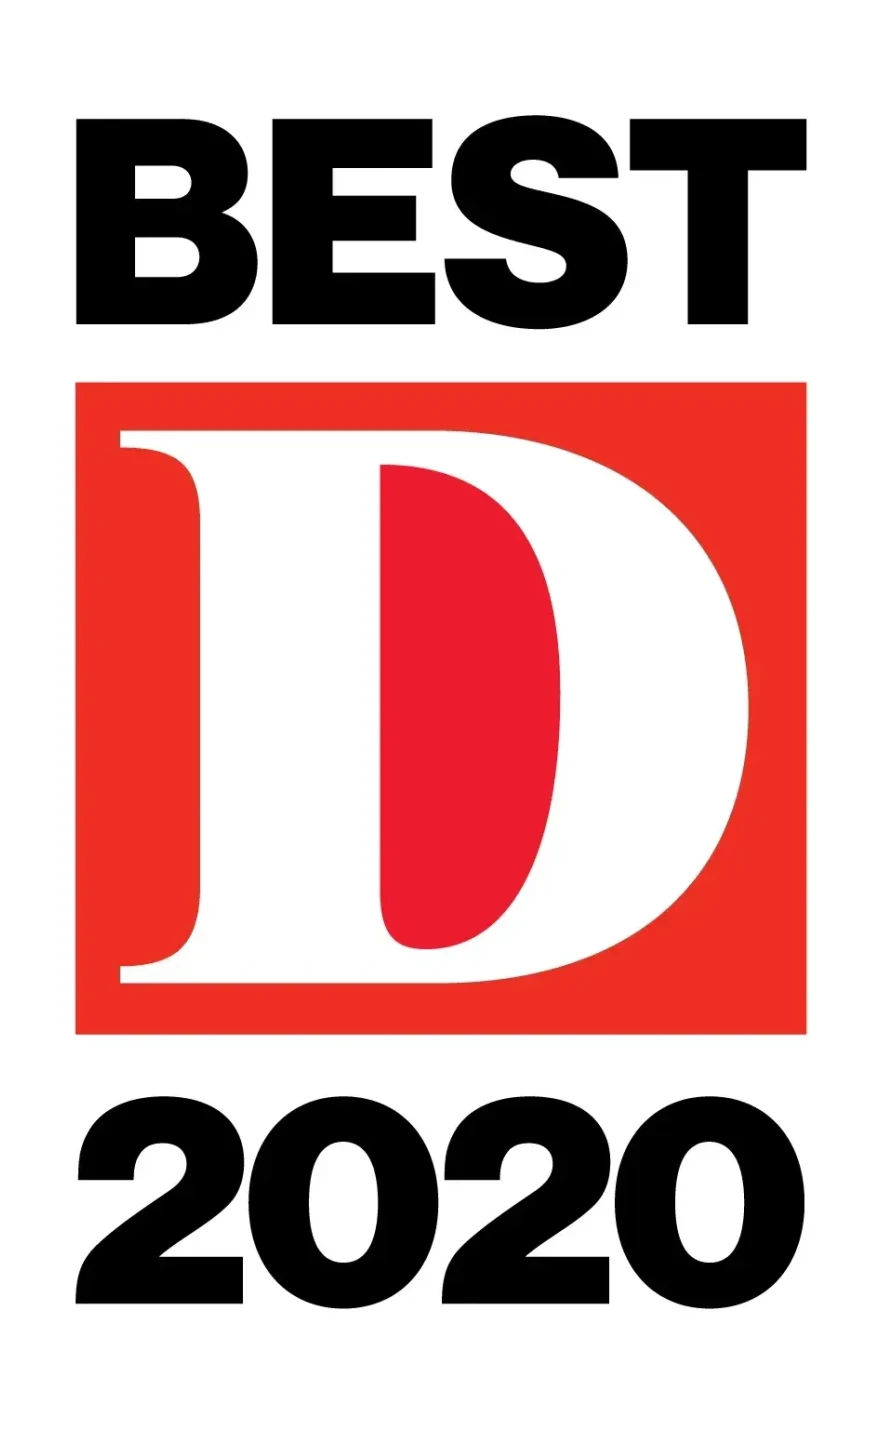
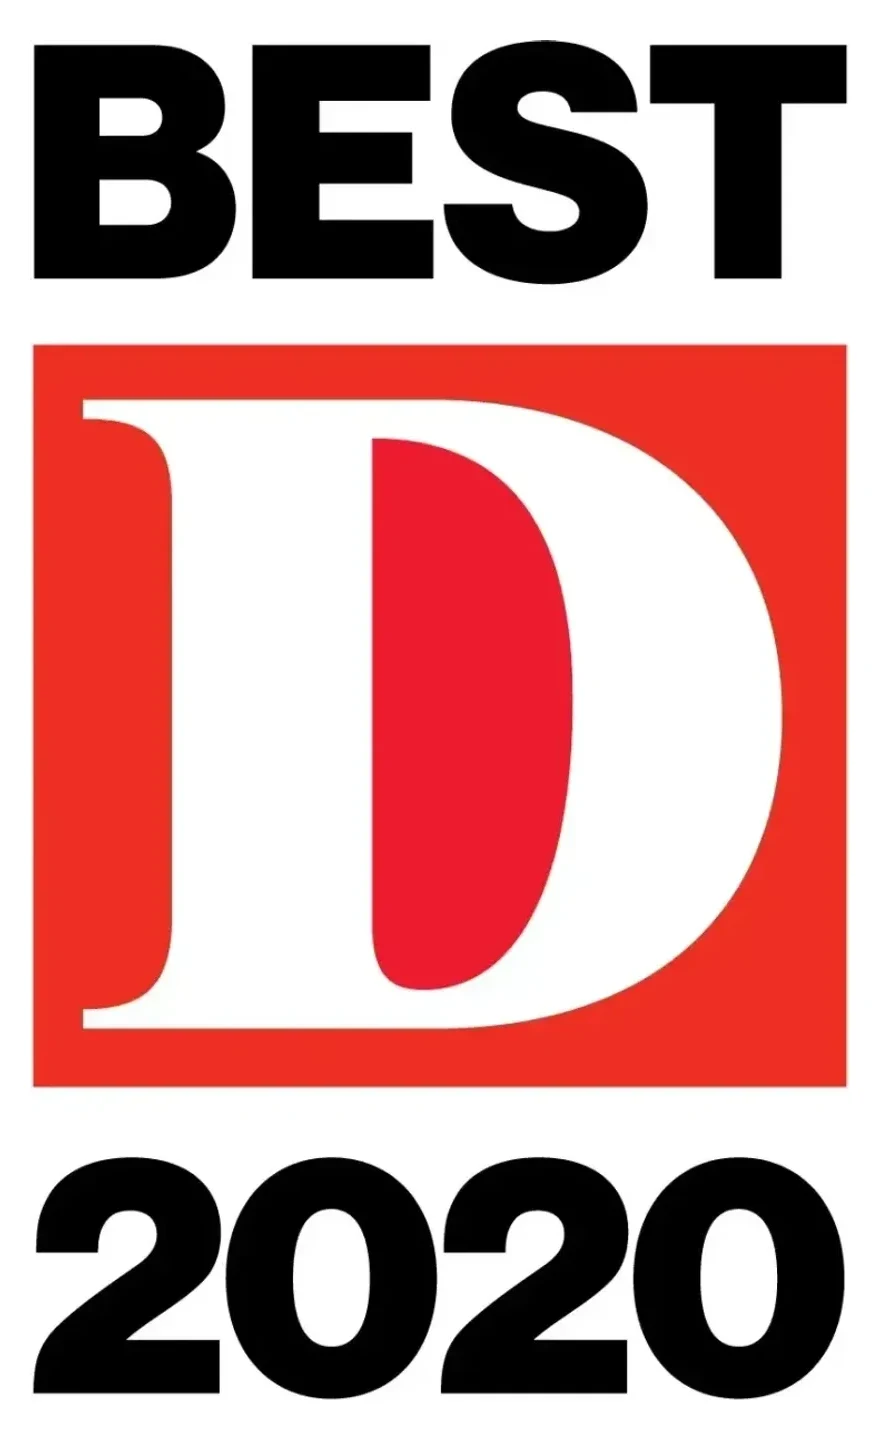
Batch: Parry bio, FACMS/double-board, bolded fellowship-trained + education blurb, Mayo-style pilonidal illustration, identical badge tiles, PRP before/after gallery, drop stale surgery-day block

diff --git a/src/lib/data/siteData.ts b/src/lib/data/siteData.ts
@@ -75,17 +75,17 @@ export const navigation = {
 export const doctors = [
   {
     id: "dr-modi",
-    name: "Gunjan Modi, MD, FAAD",
-    credentials: "MD, FAAD",
-    title: "Board Certified Dermatologist & Mohs Surgeon",
+    name: "Gunjan Modi, MD, FAAD, FACMS",
+    credentials: "MD, FAAD, FACMS",
+    title: "Double Board-Certified Dermatologist & Mohs Surgeon",
     specialty: "Mohs Surgery & Cutaneous Oncology",
     slug: "dr-gunjan-modi",
     // Real photograph from the practice's own site, colour- and exposure-matched
     // to the other two surgeons. Replaces the previous AI-generated face.
     image: "/images/dr-modi-warm.webp" as string | undefined,
     shortBio:
-      "Board certified dermatologist and fellowship trained Mohs surgeon with expertise in transplant skin cancer and immunoperoxidase staining techniques.",
-    fullBio: `Gunjan Modi is a board certified dermatologist and fellowship trained Mohs surgeon. Originally from Buffalo, New York, he graduated from high school in Sugar Land, Texas. He received his bachelor's degree from the University of Pennsylvania. He went on to medical school at Baylor College of Medicine in Houston, where he graduated with honors.
+      "Double board-certified dermatologist and fellowship-trained Mohs surgeon with expertise in transplant skin cancer and immunoperoxidase staining techniques.",
+    fullBio: `Gunjan Modi is a double board-certified dermatologist and fellowship-trained Mohs surgeon. Originally from Buffalo, New York, he graduated from high school in Sugar Land, Texas. He received his bachelor's degree from the University of Pennsylvania. He went on to medical school at Baylor College of Medicine in Houston, where he graduated with honors.
 
 Dr. Modi remained at Baylor to do his dermatology residency, where he scored in the top 1% of all residents in the country on the national dermatology inservice examination. He then completed a fellowship in Mohs surgery, cutaneous oncology, and procedural dermatology at UT Southwestern Medical Center in Dallas, where he was voted outstanding teaching fellow.
 
@@ -98,7 +98,7 @@ During his fellowship, Dr. Modi developed a keen interest in the management of s
     ],
     certifications: [
       "Diplomate, American Board of Dermatology",
-      "Associate, American College of Mohs Surgery",
+      "Fellow, American College of Mohs Surgery",
       "Fellow, American Academy of Dermatology",
       "Fellow, American Society for Dermatologic Surgery",
     ],
@@ -128,14 +128,14 @@ During his fellowship, Dr. Modi developed a keen interest in the management of s
   },
   {
     id: "dr-wells",
-    name: "Michael Wells, MD, FAAD",
-    credentials: "MD, FAAD",
-    title: "Board Certified Dermatologist & Mohs Surgeon",
+    name: "Michael Wells, MD, FAAD, FACMS",
+    credentials: "MD, FAAD, FACMS",
+    title: "Double Board-Certified Dermatologist & Mohs Surgeon",
     specialty: "Mohs Surgery & Procedural Dermatology",
     slug: "dr-michael-wells",
     image: "/images/dr-wells-warm.webp" as string | undefined,
     shortBio:
-      "Former tenured associate professor with over 20 years of experience, specializing in Mohs surgery and dermatologic education.",
+      "Double board-certified dermatologist and fellowship-trained Mohs surgeon; former tenured associate professor with over 20 years of experience.",
     fullBio: `Michael Wells, M.D. began his college career earning a Bachelor of Science degree from the University of Central Arkansas, where he graduated with Alpha Chi honors. He then moved on to complete medical school at the University of Arkansas for Medical Sciences in Little Rock, Arkansas. Here too, Michael Wells, M.D. earned numerous high honors including top pathology and anatomy student, as well as being inducted into the AOA honor society.
 
 Following medical school, he served as an assistant instructor during his Internal Medicine Internship at Vanderbilt University Medical Center in Nashville. He then completed a three-year dermatology residency program at Texas Tech University Health Sciences Center in Lubbock, where he served as chief resident in his final year.
@@ -186,9 +186,9 @@ He actively shares his wealth of knowledge and expertise with other healthcare p
 
 Dr. Parry did his internship in general medicine at Scott Air Force Base Medical Center in Illinois, after which he came to Texas to do his dermatology residency at Wilford Hall Medical Center in San Antonio. He then completed a fellowship in Mohs surgery and cutaneous oncology at Scripps Clinic in San Diego.
 
-Dr. Parry subsequently joined the faculty at LSU Medical Center, where he served as a professor of dermatology and the director of Mohs surgery for 17 years. During his tenure at LSU, Dr. Parry taught hundreds of residents, and started a fellowship training program in Mohs surgery, which graduated 15 Mohs surgeons. Dr. Parry retired from academics in 2007 and moved to Plano to join his first fellow, Dr. Eric Hollabaugh, in private practice.
+Dr. Parry subsequently joined the faculty at LSU Medical Center, where he served as a professor of dermatology and the director of Mohs surgery for 17 years. During his tenure at LSU, Dr. Parry taught hundreds of residents, and started a fellowship training program in Mohs surgery, which graduated 15 Mohs surgeons. Dr. Parry retired from academics in 2007 and moved to Plano to enter private practice.
 
-Dr. Parry has three adult children – Hugh, Phillip, and David – and four grandchildren. He is an avid sailor and tennis player.`,
+Dr. Parry has three adult children – Hugh, Phillip, and David – and nine grandchildren. He is an avid sailor and tennis player.`,
     education: [
       { degree: "Fellowship", institution: "Scripps Clinic and Research Foundation", field: "Mohs Surgery & Cutaneous Oncology" },
       { degree: "Residency", institution: "Wilford Hall Medical Center", field: "Dermatology" },

diff --git a/src/app/services/page.tsx b/src/app/services/page.tsx
@@ -146,13 +146,6 @@ export default function ServicesPage() {
                       />
                     </div>
                   )}
-                  {/* Pilonidal gets an educational diagram instead of an
-                      evocative photo. */}
-                  {service.id === "pilonidal" && (
-                    <div className="mt-8 border border-[var(--hairline)] bg-[var(--surface)] p-5">
-                      <PilonidalDiagram />
-                    </div>
-                  )}
                 </FadeIn>
 
                 {/* Wide content column. */}
@@ -164,6 +157,14 @@ export default function ServicesPage() {
                   {/* All of the rewritten explainer paragraphs — the old copy
                       skipped [0] because it duplicated the description; the
                       2026 rewrite has three distinct paragraphs. */}
+                  {/* Pilonidal gets an educational diagram, full width of
+                      the content column. */}
+                  {service.id === "pilonidal" && (
+                    <div className="my-8 bg-[var(--surface)] border border-[var(--hairline)] p-5 lg:p-7">
+                      <PilonidalDiagram />
+                    </div>
+                  )}
+
                   {service.id === "mohs-surgery" &&
                     mohsParagraphs.map((paragraph) => (
                       <p
@@ -185,9 +186,8 @@ export default function ServicesPage() {
                     ))}
                   </ul>
 
-                  {/* The Mohs entry carries the full procedure walk-through,
-                      what to expect around surgery day, and the list of
-                      cancers the technique treats. */}
+                  {/* The Mohs entry carries the full procedure walk-through
+                      and the list of cancers the technique treats. */}
                   {service.id === "mohs-surgery" && (
                     <>
                       <h3
@@ -219,66 +219,6 @@ export default function ServicesPage() {
                           </li>
                         ))}
                       </ol>
-
-                      <h3
-                        className="text-2xl text-[var(--navy-primary)] mt-12 mb-4"
-                        style={{ fontFamily: "var(--font-serif)", fontWeight: 500 }}
-                      >
-                        Around surgery day
-                      </h3>
-                      <div className="grid sm:grid-cols-3 gap-8 mb-8">
-                        {[
-                          {
-                            title: "Before surgery",
-                            items: [
-                              "Get a good night's rest",
-                              "Eat a good breakfast",
-                              "Take regular medications unless directed otherwise",
-                              "Avoid aspirin for 2 weeks prior",
-                              "Avoid alcohol for 2 days prior",
-                              "Bring a book or magazine",
-                              "Arrange for someone to drive you home",
-                            ],
-                          },
-                          {
-                            title: "During surgery",
-                            items: [
-                              "Local anesthesia keeps you comfortable",
-                              "Each stage takes 1–2 hours",
-                              "Average of 2–3 stages needed",
-                              "Most cases complete by midday",
-                              "Tissue is examined while you wait",
-                            ],
-                          },
-                          {
-                            title: "After surgery",
-                            items: [
-                              "Wound care instructions provided",
-                              "Follow-up at 4–6 weeks",
-                              "Then at 3 months, 6 months, annually",
-                              "5-year observation period",
-                              "Healing takes 6–18 months",
-                              "Use sun protection going forward",
-                            ],
-                          },
-                        ].map((phase) => (
-                          <div key={phase.title}>
-                            <h4 className="font-semibold text-[var(--navy-primary)] mb-2">
-                              {phase.title}
-                            </h4>
-                            <ul className="border-t border-[var(--gray-200)]">
-                              {phase.items.map((item) => (
-                                <li
-                                  key={item}
-                                  className="py-2.5 border-b border-[var(--gray-200)] text-[var(--warm-gray)]"
-                                >
-                                  {item}
-                                </li>
-                              ))}
-                            </ul>
-                          </div>
-                        ))}
-                      </div>
 
                       <h3
                         className="text-2xl text-[var(--navy-primary)] mt-12 mb-4"

diff --git a/src/components/ui/PilonidalDiagram.tsx b/src/components/ui/PilonidalDiagram.tsx
@@ -1,73 +1,26 @@
+import Image from "next/image";
+
 /**
- * Simple educational cross-section of pilonidal disease, drawn in the site's
- * line-art language (ivory/charcoal/bronze — matches MohsDiagram). Original
- * artwork: the reference images floating around the web are other clinics'
- * copyrighted graphics.
+ * Patient-education illustration of pilonidal disease in the Mayo-style flat
+ * medical-diagram idiom: posterior view with a magnified cross-section inset
+ * (cyst with trapped hairs, sinus tract to the surface, tailbone). Original
+ * commissioned artwork — the widely-copied reference diagrams belong to other
+ * clinics. Labels are HTML so they stay crisp at any zoom.
  */
-
-const INK = "var(--charcoal)";
-const ACCENT = "var(--bronze)";
-
-const common = {
-  fill: "none",
-  strokeWidth: 2,
-  strokeLinecap: "round" as const,
-  strokeLinejoin: "round" as const,
-};
-
 export function PilonidalDiagram() {
   return (
     <figure className="m-0">
-      <svg
-        viewBox="0 0 420 300"
-        role="img"
-        aria-label="Cross-section diagram of a pilonidal cyst in the natal cleft near the tailbone"
-        className="w-full"
-      >
-        {/* Skin surface: two buttock curves meeting at the natal cleft */}
-        <path
-          d="M10,80 C80,38 150,40 200,96 C210,108 214,120 214,132 M214,132 C214,120 218,108 228,96 C278,40 348,38 410,80"
-          stroke={INK}
-          {...common}
-        />
-        {/* Dermis hint lines */}
-        <path d="M30,110 C90,72 148,74 190,116" stroke={INK} strokeOpacity="0.25" {...common} />
-        <path d="M238,116 C280,74 338,72 396,110" stroke={INK} strokeOpacity="0.25" {...common} />
-
-        {/* Sinus opening (pit) at the midline */}
-        <circle cx="214" cy="134" r="4" fill={ACCENT} stroke="none" />
-
-        {/* Sinus tract descending to the cyst pocket */}
-        <path d="M214,138 C213,158 210,172 204,186" stroke={ACCENT} strokeDasharray="1 7" strokeWidth="3" fill="none" strokeLinecap="round" />
-
-        {/* Cyst / abscess pocket */}
-        <path
-          d="M204,186 C178,192 168,214 180,232 C192,250 226,252 240,236 C254,220 246,196 224,188 C217,186 210,185 204,186 Z"
-          stroke={ACCENT}
-          {...common}
-        />
-        {/* Trapped hairs inside the pocket */}
-        <path d="M198,214 C206,208 214,220 222,214 M194,228 C204,222 212,234 222,228 M208,200 C214,196 220,204 226,200" stroke={INK} strokeWidth="1.5" fill="none" strokeLinecap="round" />
-
-        {/* Tailbone (sacrum/coccyx) hint */}
-        <path d="M258,180 C282,190 296,210 300,238 C301,247 298,256 290,260" stroke={INK} strokeOpacity="0.45" {...common} />
-
-        {/* Labels */}
-        <g style={{ fontFamily: "var(--font-sans)", fontSize: "13px" }}>
-          <text x="214" y="118" textAnchor="middle" fill={INK}>Natal cleft</text>
-          <line x1="214" y1="122" x2="214" y2="128" stroke={INK} strokeWidth="1" />
-          <text x="120" y="250" textAnchor="end" fill={INK}>Pilonidal cyst</text>
-          <text x="120" y="266" textAnchor="end" fill={INK} opacity="0.6">with trapped hair</text>
-          <line x1="126" y1="248" x2="172" y2="234" stroke={INK} strokeWidth="1" />
-          <text x="330" y="270" textAnchor="start" fill={INK} opacity="0.7">Tailbone</text>
-          <line x1="326" y1="266" x2="300" y2="252" stroke={INK} strokeWidth="1" opacity="0.7" />
-          <text x="298" y="150" textAnchor="start" fill={INK} opacity="0.7">Sinus opening</text>
-          <line x1="294" y1="146" x2="222" y2="136" stroke={INK} strokeWidth="1" opacity="0.7" />
-        </g>
-      </svg>
-      <figcaption className="mt-3 text-sm text-[var(--warm-gray-light)]">
+      <Image
+        src="/images/pilonidal-illustration.webp"
+        alt="Medical illustration: posterior view of the natal cleft with an inflamed pilonidal area, and a magnified cross-section showing a pilonidal cyst containing trapped hairs, its sinus tract to the skin surface, and the tailbone"
+        width={1408}
+        height={768}
+        className="w-full border border-[var(--hairline)]"
+      />
+      <figcaption className="mt-3 text-sm leading-relaxed text-[var(--warm-gray-light)]">
         Pilonidal cysts and abscesses form in the natal cleft near the
-        tailbone, where hair works under the skin.
+        tailbone. Magnified: the cyst cavity with trapped hair, and the narrow
+        sinus tract opening at the skin surface.
       </figcaption>
     </figure>
   );

diff --git a/src/app/services/[slug]/page.tsx b/src/app/services/[slug]/page.tsx
@@ -139,6 +139,55 @@ export default async function ProcedurePage({
         </div>
       </section>
 
+      {/* Before & after gallery — only for procedures with practice photos. */}
+      {procedure.gallery && (
+        <section className="border-t border-[var(--gray-200)] bg-[var(--surface)] py-20">
+          <div className="mx-auto max-w-6xl px-6">
+            <h2 className="text-display mb-3">Results</h2>
+            <span aria-hidden="true" className="rule-bronze mb-10" />
+            <div className="grid gap-12 md:grid-cols-2">
+              {procedure.gallery.map((pair) => (
+                <figure key={pair.label} className="m-0">
+                  <div className="grid grid-cols-2 gap-px border border-[var(--hairline)] bg-[var(--hairline)]">
+                    <div className="relative bg-white">
+                      <Image
+                        src={pair.before}
+                        alt={`${procedure.name} — ${pair.label}, before treatment`}
+                        width={800}
+                        height={800}
+                        className="h-auto w-full"
+                      />
+                      <span className="label-caps absolute left-3 top-3 bg-[var(--ivory)]/90 px-2.5 py-1 text-xs">
+                        Before
+                      </span>
+                    </div>
+                    <div className="relative bg-white">
+                      <Image
+                        src={pair.after}
+                        alt={`${procedure.name} — ${pair.label}, after treatment`}
+                        width={800}
+                        height={800}
+                        className="h-auto w-full"
+                      />
+                      <span className="label-caps absolute left-3 top-3 bg-[var(--ivory)]/90 px-2.5 py-1 text-xs">
+                        After
+                      </span>
+                    </div>
+                  </div>
+                  <figcaption className="mt-3 text-sm text-[var(--warm-gray-light)]">
+                    {pair.label} — our patient, photographed by the practice.
+                  </figcaption>
+                </figure>
+              ))}
+            </div>
+            <p className="mt-8 text-sm text-[var(--warm-gray-light)]">
+              Individual results vary. Photographs are of this practice&rsquo;s
+              own patients, unretouched apart from cropping.
+            </p>
+          </div>
+        </section>
+      )}
+
       {/* Related procedures */}
       <section className="py-20 bg-[var(--surface)]">
         <div className="mx-auto max-w-6xl px-6">

diff --git a/src/app/page.tsx b/src/app/page.tsx
@@ -69,7 +69,8 @@ export default function Home() {
 
             <p className="mb-8 text-lg leading-relaxed text-white/80">
               Skin cancer is what we do — all we do. Our three board-certified
-              surgeons remove it with Mohs micrographic surgery, reading 100%
+              and <strong className="font-semibold text-white">fellowship-trained</strong> surgeons remove it with Mohs
+              micrographic surgery, reading 100%
               of your margins in our own laboratory while you wait, with cure
               rates up to 99%.
             </p>
@@ -143,6 +144,29 @@ export default function Home() {
                 <CountUpStat key={stat.label} value={stat.value} label={stat.label} />
               ))}
             </div>
+          </FadeIn>
+
+          {/* Why fellowship training matters — a light education for patients
+              and referring physicians alike. */}
+          <FadeIn delay={0.35}>
+            <aside className="mt-14 border-l-2 border-[var(--bronze)] bg-[var(--ivory-deep)] px-8 py-7 lg:px-10">
+              <h3
+                className="mb-3 text-xl text-[var(--navy-primary)]"
+                style={{ fontFamily: "var(--font-serif)", fontWeight: 500 }}
+              >
+                Why fellowship training matters
+              </h3>
+              <p className="max-w-3xl leading-relaxed text-[var(--warm-gray)]">
+                Any dermatologist may perform Mohs surgery. A{" "}
+                <strong className="font-semibold">fellowship-trained</strong>{" "}
+                Mohs surgeon has done something harder: one to two additional
+                years of accredited training under an established Mohs surgeon,
+                covering hundreds of cases — the surgery, the microscope work,
+                and the reconstruction. All three of our surgeons carry that
+                training, and two of them spent their careers providing it to
+                others.
+              </p>
+            </aside>
           </FadeIn>
         </div>
       </section>

diff --git a/src/lib/data/proceduresData.ts b/src/lib/data/proceduresData.ts
@@ -23,6 +23,8 @@ export type Procedure = {
   /** Which evocative image pairs with the page. */
   image: string;
   imageAlt: string;
+  /** Optional before/after pairs, from the practice's own patient photos. */
+  gallery?: { before: string; after: string; label: string }[];
 };
 
 export const procedures: Procedure[] = [
@@ -237,6 +239,11 @@ export const procedures: Procedure[] = [
     ],
     image: "/images/svc-surgical-light.webp",
     imageAlt: "Soft surgical light reflected in polished steel",
+    // From the practice's own PRP brochure (crops per the brochure layout).
+    gallery: [
+      { before: "/images/prp/patient1-before.webp", after: "/images/prp/patient1-after.webp", label: "Patient 1" },
+      { before: "/images/prp/patient2-before.webp", after: "/images/prp/patient2-after.webp", label: "Patient 2" },
+    ],
   },
   {
     // Confirmed by Dr. Modi in chat 2026-08-02.

diff --git a/docs/decisions/practice-decisions.md b/docs/decisions/practice-decisions.md
@@ -85,3 +85,17 @@ Mohs surgeons: **Dr. Gunjan Modi** (the client/user), **Dr. Michael Wells**,
   literature does not support it; Svarre 2023, Immerman series). Hair Loss &
   PRP added as holistic service (exam, labs, oral/topical meds, PRP) — band +
   rewritten detail page.
+
+### 2026-08-02 — Batch of nine (Dr. Modi confirmed in chat)
+- Parry: nine grandchildren; Hollabaugh mention removed. All three surgeons
+  styled MD, FAAD, FACMS; Modi + Wells titled Double Board-Certified (Modi's
+  ACMS line upgraded Associate→Fellow to match FACMS, per his instruction).
+  Hero: "board-certified and **fellowship-trained**" bolded. "Why fellowship
+  training matters" education blurb added under home surgeon stats. Redundant
+  "Around surgery day" 3-column block deleted from services (also carried
+  stale 2–3-stage/driver claims). Pilonidal diagram replaced with an ORIGINAL
+  Mayo-style flat illustration (generated, no text baked in). D badges
+  fill-normalized to exactly identical 880x1440 tiles. PRP page gained a
+  before/after Results gallery from the practice's own brochure — pairs
+  derived from the brochure's own slide layout (image2→3 = Patient 1,
+  image4→5 = Patient 2), crops per the brochure's srcRect, 2x upscale only.
